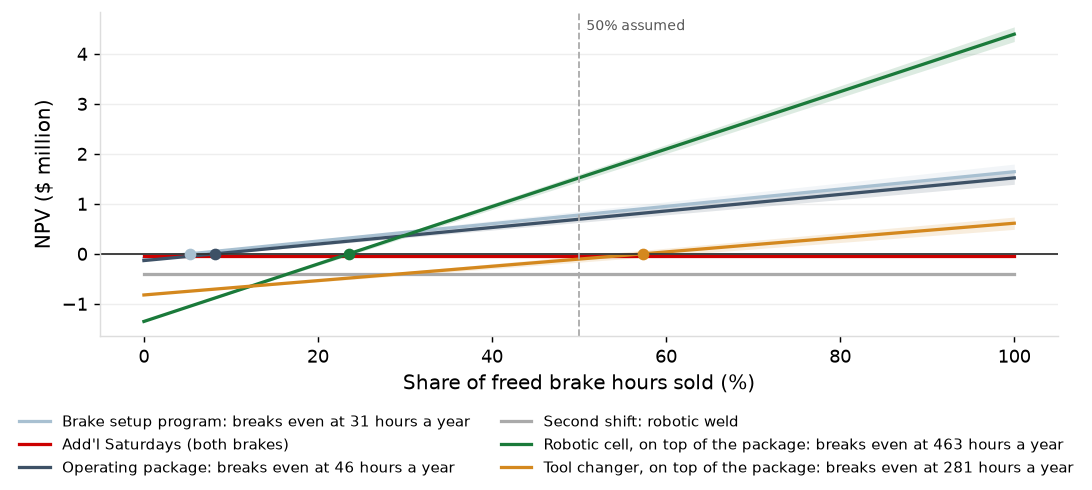
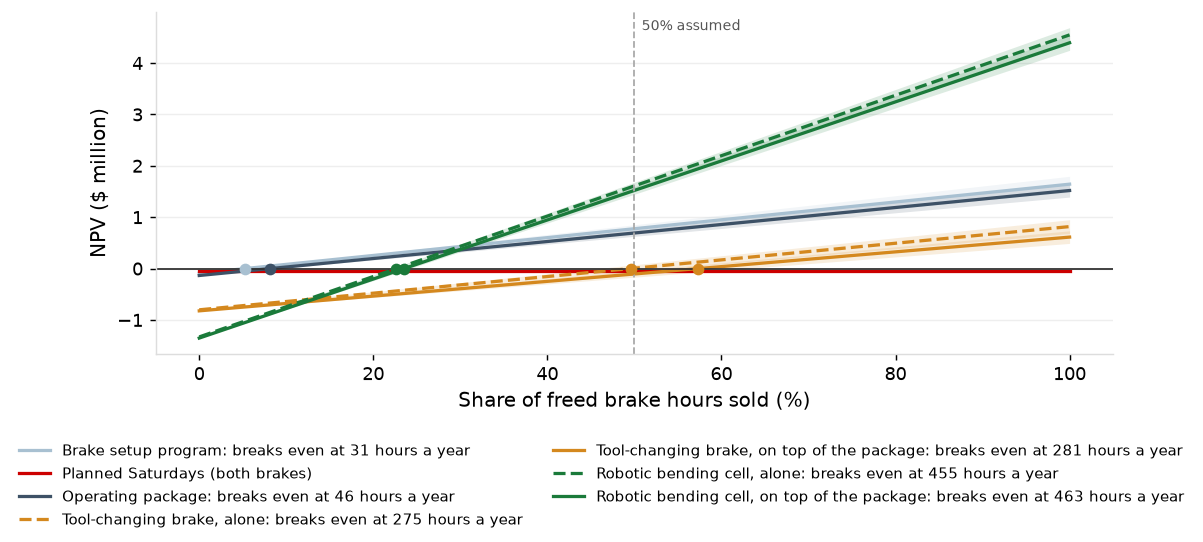
Simulation report: Section 3 restructured around the NPV chart

diff --git a/docs/reports/options_tested.html b/docs/reports/options_tested.html
@@ -84,17 +84,15 @@ nav.toc a.sub { font-size: 12px; padding-left: 22px; }
 <p>Scenarios that improved on-time delivery are shown below alongside their impact on other delivery mechanism and outcome metrics. Changes that free brake capacity (brake setup program, replacing press brake B3, and the new robotic bending cell) saw improvements across the board: decreased brake utilization, lower queue times per operation, reduced floor WIP, and improvements in both number of late jobs and total days late. Additional Saturdays reach a similar result by adding hours rather than removing work, so the brakes stay as busy as before and utilization is unchanged. Earliest due date reorders work without adding capacity, so its gain is smaller: it moves jobs about to miss ahead of jobs due later, which removes late jobs but not days late, as the jobs it delays are later when they miss. Across all scenarios, the gain in on-time delivery follows the cut in brake queue time. See Appendix Tables <a href='#t4'>4</a>, <a href='#t5'>5</a> and <a href='#t6'>6</a> for additional detail.</p>
 <div class='chart-title'>Scenario Analysis: Improvements vs. Status Quo, 2025, With 95% Intervals</div><img alt="Scenario Analysis: Improvements vs. Status Quo, 2025, With 95% Intervals" src="../figures/changes_that_work.png?v=759839c2">
 <h2 id='f3'>3. Return on the Changes That Work</h2>
-<p>Two decisions follow from the results, and they are separate. The operating package addresses the year-end build: it costs $60,000 once and $15,400 a year, and returns that in 0.4 years if half the 566 brake hours it frees are sold, for an NPV of $0.69M. On top of it the robotic cell returns $1.52M with a payback of 2.0 years and breaks even when 24% of its freed hours are sold; the tool changer does not reach zero at half sold (-$0.11M) and needs 57%. The weld cell second shift is the one lever that moves an ordinary quarter, at about $83,000 a year with no return in money. Nothing that costs money pays on cost savings alone.</p>
-<h3 id='f3_1'>What the changes cost and return</h3>
-<p>The return on each change is the brake hours it frees, if those hours are sold, plus overtime avoided, less what it costs to run. The operating package frees 566 brake hours a year, worth $170,000 at half sold, and adds $5,400 of Saturday overtime; the robotic cell frees a further 1,966 hours ($590,000) and costs $67,000 a year to run, $42,000 of it its operator; the tool changer frees 491 ($147,000). Overtime avoided is under $4,000 a year for every change. The simulation replays the 2025 orders, so it ships within 10 jobs of current practice under every option; the throughput value is an assumption about sales, not a simulated result, and only brake hours carry it. Operator hours freed without a change in hours paid are not counted as money. Planned Saturdays add hours rather than free them; their return is in on-time delivery, not in this table. Payback is the one-time cost over the net a year, and NPV is the net a year over 7 years at 10% less the one-time cost, before tax; rates and prices are the shop's. See Appendix Tables <a href='#t7'>7</a> and <a href='#t8'>8</a> for additional detail.</p>
-<div class='chart-title'>Cost and Return, 2025</div><table class="data"><thead><tr><th>Change</th><th>Measured against</th><th>One-time cost</th><th>Added cost a year</th><th>Overtime avoided a year</th><th>Throughput value a year (assumption: 50% sold at 40% margin)</th><th>Net a year</th><th>Payback</th><th>NPV (95% interval)</th><th>Break-even share sold (hours a year)</th></tr></thead><tbody><tr><td class="">Brake setup program</td><td class="">Current practice</td><td class="">$60,000</td><td class="">$10,053</td><td class="">$3,633</td><td class="">$178,086</td><td class="">$171,666</td><td class="">0.3 years</td><td class="">$0.78M ($0.70M to $0.85M)</td><td class="">5% (31 hours)</td></tr><tr><td class="">Add'l Saturdays (both brakes)</td><td class="">Current practice</td><td class="">$0</td><td class="">$8,071</td><td class="">$0</td><td class="">$0</td><td class="">-$8,071</td><td class="">none</td><td class="">-$0.04M (-$0.04M to -$0.03M)</td><td class="">no hours freed</td></tr><tr><td class="">Operating package</td><td class="">Current practice</td><td class="">$60,000</td><td class="">$15,350</td><td class="">$0</td><td class="">$169,882</td><td class="">$154,532</td><td class="">0.4 years</td><td class="">$0.69M ($0.63M to $0.76M)</td><td class="">8% (46 hours)</td></tr><tr><td class="">Second shift: robotic weld</td><td class="">Current practice</td><td class="">$0</td><td class="">$84,041</td><td class="">$1,041</td><td class="">$0</td><td class="">-$83,000</td><td class="">none</td><td class="">-$0.40M (-$0.41M to -$0.40M)</td><td class="">no hours freed</td></tr><tr><td class="">Robotic cell, on top of the package</td><td class="">Operating package</td><td class="">$1,030,000</td><td class="">$66,898</td><td class="">$684</td><td class="">$590,168</td><td class="">$523,954</td><td class="">2.0 years</td><td class="">$1.52M ($1.45M to $1.59M)</td><td class="">24% (463 hours)</td></tr><tr><td class="">Tool changer, on top of the package</td><td class="">Operating package</td><td class="">$735,000</td><td class="">$18,426</td><td class="">$410</td><td class="">$147,405</td><td class="">$129,389</td><td class="">5.7 years</td><td class="">-$0.11M (-$0.17M to -$0.04M)</td><td class="">57% (281 hours)</td></tr></tbody></table>
-<div class='chart-title'>What Makes Up Each Option's NPV, 2025</div><img alt="What Makes Up Each Option's NPV, 2025" src="../figures/return_npv_parts.png?v=b121d349">
-<h3 id='f3_2'>When the freed hours are sold</h3>
+<p>Five changes improved on-time delivery in 2025 and moved the delivery mechanisms and outcomes with it: the brake setup program (+4.5 points), planned Saturdays on both brakes (+4.5), the tool-changing brake (+4.7), the robotic bending cell (+9.4), and the operating package, which combines the first two (+7.7). Each shortened the brake queue, took jobs off the floor, and cut both late jobs and days late. This section sets what each change costs against what it returns. The return is the brake hours a change frees, valued at half of them sold at a 40% margin, plus overtime avoided, less what the change costs to run; NPV is that net a year over 7 years at 10%, less the one-time cost, before tax. On-time delivery itself is not priced, so a change that adds hours rather than freeing them, such as planned Saturdays, shows a cost and no return.</p>
+<div class='chart-title'>What Makes Up Each Option's NPV, 2025</div><img alt="What Makes Up Each Option's NPV, 2025" src="../figures/return_npv_parts.png?v=2a9cbfc9">
+<p>The operating package is recommended first: for $60,000 once and $15,400 a year it raises on-time delivery 7.7 points, pays back in 0.4 years and returns $0.69M, breaking even if 46 of the 566 brake hours it frees are sold. It returns less than the setup program alone ($0.78M) because its Saturdays add overtime and free no hours, and the package frees 27 fewer brake hours than the setup program alone; what they buy is 3.2 more points of on-time delivery. The robotic bending cell is the capital option: on top of the package it adds 2.2 points and returns $1.52M with a 2.0-year payback, breaking even at 463 hours sold a year, and on its own it returns $1.61M. The tool-changing brake does not pay on top of the package (-$0.11M) and only breaks even on its own ($0.01M). See Appendix Tables <a href='#t7'>7</a> and <a href='#t8'>8</a> for additional detail.</p>
+<h3 id='f3_1'>When the freed hours are sold</h3>
 <p>Whether the capital options pay depends on one figure the simulation cannot supply: how many of the freed brake hours the shop sells. The package breaks even at 46 hours sold a year and the robotic cell at 463, against the 16,165 brake hours the shop ran in 2025; the tool changer needs 281 of the 491 it frees. In an ordinary year, without a build, the package frees 311 hours and its NPV falls to $0.30M; the cell's is $1.37M and the tool changer's -$0.18M.</p>
-<div class='chart-title'>NPV Against the Share of Freed Brake Hours Sold</div><img alt="NPV Against the Share of Freed Brake Hours Sold" src="../figures/return_npv_by_share_sold.png?v=c745d1d8">
-<h3 id='f3_3'>What the money does not capture</h3>
+<div class='chart-title'>NPV Against the Share of Freed Brake Hours Sold</div><img alt="NPV Against the Share of Freed Brake Hours Sold" src="../figures/return_npv_by_share_sold.png?v=12c48592">
+<h3 id='f3_2'>What the money does not capture</h3>
 <p>Several effects of these changes are measured but not priced, and some are not measured at all. See Appendix Table <a href='#t9'>9</a> for additional detail.</p>
-<div class='chart-title'>Measured but Not Priced, and Other Considerations</div><table class="data"><thead><tr><th>Change</th><th>Measured, not priced</th><th>Considerations</th></tr></thead><tbody><tr><td class="">Brake setup program</td><td class="">2025: 231 late jobs and 976 days late removed (+4.5 points); 90th-percentile lead time -1.9 days; floor WIP -18 jobs. Top customers at or above 90% on time: 6 of 41 ($1.49M of revenue) against 2 today; at or above 95%: 0. Operator hours freed: 586. Weekend hours per brake operator, November to February: 3.2.</td><td class="">Depends on repeat setups going to the operators who know the part, and on a handover standard being kept. It narrows cross-training. It can be stopped at no cost.</td></tr><tr><td class="">Add'l Saturdays (both brakes)</td><td class="">2025: 232 late jobs and 976 days late removed (+4.5 points); 90th-percentile lead time -1.8 days; floor WIP -15 jobs. Top customers at or above 90% on time: 4 of 41 ($1.02M of revenue) against 2 today; at or above 95%: 0. Weekend hours per brake operator, November to February: 26.7.</td><td class="">About 3.3 Saturdays per brake operator from November to February, against 0.5 today. Sustained weekend work raises fatigue, absence and turnover risk, while a planned shift is easier to staff than one called at short notice. The record has only three Saturdays with both brakes crewed.</td></tr><tr><td class="">Operating package</td><td class="">2025: 395 late jobs and 1,575 days late removed (+7.7 points); 90th-percentile lead time -3.7 days; floor WIP -33 jobs. Top customers at or above 90% on time: 10 of 41 ($3.53M of revenue) against 2 today; at or above 95%: 0. Operator hours freed: 546. Weekend hours per brake operator, November to February: 26.7.</td><td class="">Both of the above.</td></tr><tr><td class="">Second shift: robotic weld</td><td class="">Q2-Q4: 36 late jobs and 183 days late removed (+1.0 points); 90th-percentile lead time -0.3 days; floor WIP -3 jobs. Top customers at or above 90% on time: 2 of 41 ($0.48M of revenue) against 2 today; at or above 95%: 0. Weekend hours per brake operator, November to February: 3.8.</td><td class="">One operator alone on the shift, with no programming or quality support on hand. The shop must hire for it and keep the post filled.</td></tr><tr><td class="">Robotic cell, on top of the package</td><td class="">2025: 115 late jobs and 330 days late removed (+2.2 points); 90th-percentile lead time -1.5 days; floor WIP -17 jobs. Top customers at or above 90% on time: 17 of 41 ($11.54M of revenue) against 2 today; at or above 95%: 3. Operator hours freed: 869. Weekend hours per brake operator, November to February: 26.7.</td><td class="">Runs only light, repeat parts in lots of 25 or more, so its value depends on that work staying 31% of brake hours. Adds 204 setup hours a year to the manual brakes. Needs in-house programming skills. Gives headroom to quote more work. It is the largest sum at risk and cannot be reversed.</td></tr><tr><td class="">Tool changer, on top of the package</td><td class="">2025: 51 late jobs and 144 days late removed (+1.0 points); 90th-percentile lead time -0.7 days; floor WIP -7 jobs. Top customers at or above 90% on time: 15 of 41 ($8.14M of revenue) against 2 today; at or above 95%: 2. Operator hours freed: 490. Weekend hours per brake operator, November to February: 26.7.</td><td class="">B3 is out of service while it is replaced. The effect is limited to B3's setups. One vendor maintains it.</td></tr></tbody></table>
+<div class='chart-title'>Measured but Not Priced, and Other Considerations</div><table class="data"><thead><tr><th>Change</th><th>Measured, not priced</th><th>Considerations</th></tr></thead><tbody><tr><td class="">Brake setup program</td><td class="">2025: 231 late jobs and 976 days late removed (+4.5 points); 90th-percentile lead time -1.9 days; floor WIP -18 jobs. Top customers at or above 90% on time: 6 of 41 ($1.49M of revenue) against 2 today; at or above 95%: 0. Operator hours freed: 586. Weekend hours per brake operator, November to February: 3.2.</td><td class="">Depends on repeat setups going to the operators who know the part, and on a handover standard being kept. It narrows cross-training. It can be stopped at no cost.</td></tr><tr><td class="">Add'l Saturdays (both brakes)</td><td class="">2025: 232 late jobs and 976 days late removed (+4.5 points); 90th-percentile lead time -1.8 days; floor WIP -15 jobs. Top customers at or above 90% on time: 4 of 41 ($1.02M of revenue) against 2 today; at or above 95%: 0. Weekend hours per brake operator, November to February: 26.7.</td><td class="">About 3.3 Saturdays per brake operator from November to February, against 0.5 today. Sustained weekend work raises fatigue, absence and turnover risk, while a planned shift is easier to staff than one called at short notice. The record has only three Saturdays with both brakes crewed.</td></tr><tr><td class="">Operating package</td><td class="">2025: 395 late jobs and 1,575 days late removed (+7.7 points); 90th-percentile lead time -3.7 days; floor WIP -33 jobs. Top customers at or above 90% on time: 10 of 41 ($3.53M of revenue) against 2 today; at or above 95%: 0. Operator hours freed: 546. Weekend hours per brake operator, November to February: 26.7.</td><td class="">Both of the above.</td></tr><tr><td class="">Second shift: robotic weld</td><td class="">Q2-Q4: 36 late jobs and 183 days late removed (+1.0 points); 90th-percentile lead time -0.3 days; floor WIP -3 jobs. Top customers at or above 90% on time: 2 of 41 ($0.48M of revenue) against 2 today; at or above 95%: 0. Weekend hours per brake operator, November to February: 3.8.</td><td class="">One operator alone on the shift, with no programming or quality support on hand. The shop must hire for it and keep the post filled.</td></tr><tr><td class="">New robotic bending cell</td><td class="">2025: 486 late jobs and 1,840 days late removed (+9.4 points); 90th-percentile lead time -5.0 days; floor WIP -46 jobs. Top customers at or above 90% on time: 16 of 41 ($8.35M of revenue) against 2 today; at or above 95%: 2. Operator hours freed: 831. Weekend hours per brake operator, November to February: 0.8.</td><td class="">Runs only light, repeat parts in lots of 25 or more, so its value depends on that work staying 31% of brake hours. Adds 311 setup hours a year to the manual brakes. Needs in-house programming skills. Gives headroom to quote more work. It is the largest sum at risk and cannot be reversed.</td></tr><tr><td class="">Robotic cell, on top of the package</td><td class="">2025: 115 late jobs and 330 days late removed (+2.2 points); 90th-percentile lead time -1.5 days; floor WIP -17 jobs. Top customers at or above 90% on time: 17 of 41 ($11.54M of revenue) against 2 today; at or above 95%: 3. Operator hours freed: 869. Weekend hours per brake operator, November to February: 26.7.</td><td class="">Runs only light, repeat parts in lots of 25 or more, so its value depends on that work staying 31% of brake hours. Adds 204 setup hours a year to the manual brakes. Needs in-house programming skills. Gives headroom to quote more work. It is the largest sum at risk and cannot be reversed.</td></tr><tr><td class="">Replace press brake B3</td><td class="">2025: 240 late jobs and 1,018 days late removed (+4.7 points); 90th-percentile lead time -1.9 days; floor WIP -18 jobs. Top customers at or above 90% on time: 7 of 41 ($1.66M of revenue) against 2 today; at or above 95%: 0. Operator hours freed: 552. Weekend hours per brake operator, November to February: 2.8.</td><td class="">B3 is out of service while it is replaced. The effect is limited to B3's setups. One vendor maintains it.</td></tr><tr><td class="">Tool changer, on top of the package</td><td class="">2025: 51 late jobs and 144 days late removed (+1.0 points); 90th-percentile lead time -0.7 days; floor WIP -7 jobs. Top customers at or above 90% on time: 15 of 41 ($8.14M of revenue) against 2 today; at or above 95%: 2. Operator hours freed: 490. Weekend hours per brake operator, November to February: 26.7.</td><td class="">B3 is out of service while it is replaced. The effect is limited to B3's setups. One vendor maintains it.</td></tr></tbody></table>
 <p>The package comes first: $60,000 and Saturday overtime for +7.7 points in a year with a build, and 46 freed hours sold a year covers it. The robotic cell follows if the shop can sell 463 of the 1,966 brake hours it frees; the tool changer only if it can sell 281 of 491. The weld cell second shift is a separate decision: $83,000 a year for +1.0 point in an ordinary quarter, 36 late jobs and 183 days late.</p>
 <h2 id='f4'>4. Model Accuracy & Validation</h2>
 <h3 id='f4_1'>How the model works</h3>

diff --git a/docs/index.html b/docs/index.html
@@ -34,5 +34,5 @@ nav.toc a { color: var(--accent); text-decoration: none; margin-right: 14px; }
 </style></head>
 <body><div class="page">
 <header class="doc"><div class="kicker">Deliverables</div><h1>Operations analytics</h1><div class="meta">Custom sheet-metal fabrication job shop, about 120 employees, one plant.<br>Eight improvement projects and an operations dashboard on the shop's records from January 2023 to December 2025. Sources: ERP, shop-floor data collection, QMS, maintenance and HR exports (batch 20261012T153907Z-20250101).</div><div class="credit">Created by Brian Davis, 2026</div></header>
-<table class="data"><thead><tr><th>Report</th><th>Question</th><th>Finding</th><th>Deliverable</th></tr></thead><tbody><tr><td class="">Flow and On-time Delivery</td><td class="">Where does the lead time go, and does the floor's WIP match the quoted lead times? What makes jobs late, and do the shop's late-reason codes say so? What lead time should be quoted in a build, and which measures warn of a decline?</td><td class="">Queue at the brakes is 24% of lead time and the stage that separates late jobs from on-time jobs (5.76 days against 2.50); the median job ships in 11.2 working days against an average quoted lead time of 12.9, 9.2 in Q2-Q4. In 2025, jobs waiting at work centers (i.e., queue constraints) accounted for 42% of the 3,473 lost days, while jobs that were released late accounted for 21%, and jobs that waited on material and outside processing accounted for 7% and 3%, respectively. The shop's quoted lead time was off by 4.8 days on average from 2023 to 2025. The current practice of quoting standard lead times based on the part's routing class, and then adjusting this higher during periods of low capacity, proved to be inaccurate in both directions.</td><td class=""><a href='reports/lead_time_and_late_jobs.html'>Report</a></td></tr><tr><td class="">Capacity, Constraints and Setups</td><td class="">Which work centers run hot, and how do their queues respond to load? What do setups cost at the brakes, and where is the overrun?</td><td class="">In 2025, the press brakes ran at 91% average utilization and the robotic weld cell at 82%. Against their 97% uptime, the average production capacity buffer was only 6 points for the press brakes and 15 points for the robotic weld cell, the smallest of all work centers. Brake setups ran 1,847 hours over standard in 2025, 36 a week, 10.4 points of brake utilization.</td><td class=""><a href='reports/capacity_constraints_and_setups.html'>Report</a></td></tr><tr><td class="">Discrete Event Simulation: On-time Delivery</td><td class="">Do release and dispatch rules raise on-time delivery, or only added brake hours? What do the changes that work cost and return?</td><td class="">Scenarios that added brake capacity improved on-time delivery. Among the release and dispatch rules, only earliest due date improved on-time delivery. The "Operating Package" combines the brake setup program and additional Saturday shifts on both brakes, the two low cost capacity scenarios. This combination added 7.7 points to on-time delivery. The operating package addresses the year-end build: it costs $60,000 once and $15,400 a year, and returns that in 0.4 years if half the 566 brake hours it frees are sold, for an NPV of $0.69M. On top of it the robotic cell returns $1.52M with a payback of 2.0 years and breaks even when 24% of its freed hours are sold; the tool changer does not reach zero at half sold (-$0.11M) and needs 57%.</td><td class=""><a href='reports/options_tested.html'>Report</a></td></tr></tbody></table><p><a href='dashboard/index.html'>Operations dashboard</a></p>
+<table class="data"><thead><tr><th>Report</th><th>Question</th><th>Finding</th><th>Deliverable</th></tr></thead><tbody><tr><td class="">Flow and On-time Delivery</td><td class="">Where does the lead time go, and does the floor's WIP match the quoted lead times? What makes jobs late, and do the shop's late-reason codes say so? What lead time should be quoted in a build, and which measures warn of a decline?</td><td class="">Queue at the brakes is 24% of lead time and the stage that separates late jobs from on-time jobs (5.76 days against 2.50); the median job ships in 11.2 working days against an average quoted lead time of 12.9, 9.2 in Q2-Q4. In 2025, jobs waiting at work centers (i.e., queue constraints) accounted for 42% of the 3,473 lost days, while jobs that were released late accounted for 21%, and jobs that waited on material and outside processing accounted for 7% and 3%, respectively. The shop's quoted lead time was off by 4.8 days on average from 2023 to 2025. The current practice of quoting standard lead times based on the part's routing class, and then adjusting this higher during periods of low capacity, proved to be inaccurate in both directions.</td><td class=""><a href='reports/lead_time_and_late_jobs.html'>Report</a></td></tr><tr><td class="">Capacity, Constraints and Setups</td><td class="">Which work centers run hot, and how do their queues respond to load? What do setups cost at the brakes, and where is the overrun?</td><td class="">In 2025, the press brakes ran at 91% average utilization and the robotic weld cell at 82%. Against their 97% uptime, the average production capacity buffer was only 6 points for the press brakes and 15 points for the robotic weld cell, the smallest of all work centers. Brake setups ran 1,847 hours over standard in 2025, 36 a week, 10.4 points of brake utilization.</td><td class=""><a href='reports/capacity_constraints_and_setups.html'>Report</a></td></tr><tr><td class="">Discrete Event Simulation: On-time Delivery</td><td class="">Do release and dispatch rules raise on-time delivery, or only added brake hours? What do the changes that work cost and return?</td><td class="">Scenarios that added brake capacity improved on-time delivery. Among the release and dispatch rules, only earliest due date improved on-time delivery. The "Operating Package" combines the brake setup program and additional Saturday shifts on both brakes, the two low cost capacity scenarios. This combination added 7.7 points to on-time delivery. The operating package is recommended first: for $60,000 once and $15,400 a year it raises on-time delivery 7.7 points, pays back in 0.4 years and returns $0.69M, breaking even if 46 of the 566 brake hours it frees are sold. The robotic bending cell is the capital option: on top of the package it adds 2.2 points and returns $1.52M with a 2.0-year payback, breaking even at 463 hours sold a year, and on its own it returns $1.61M.</td><td class=""><a href='reports/options_tested.html'>Report</a></td></tr></tbody></table><p><a href='dashboard/index.html'>Operations dashboard</a></p>
 </div></body></html>

diff --git a/analytics/reports/options_tested.py b/analytics/reports/options_tested.py
@@ -275,10 +275,18 @@ def fig_summary_steps(package, cell):
     return save(f, "summary_steps", "")
 
 
+# the rows of the two return charts: a scenario, what it is measured against, and its label
+CHARTED = [(SETUP, CURRENT, "Brake setup program"), (SAT_BOTH, CURRENT, "Planned Saturdays (both brakes)"), (PACKAGE, CURRENT, "Operating package"),
+           (CHANGER, CURRENT, "Tool-changing brake, alone"), (P_CHANGER, PACKAGE, "Tool-changing brake, on top of the package"),
+           (CELL, CURRENT, "Robotic bending cell, alone"), (P_CELL, PACKAGE, "Robotic bending cell, on top of the package")]
+# the rows of the table of what is measured and not priced
+NOT_PRICED = [(SETUP, CURRENT), (SAT_BOTH, CURRENT), (PACKAGE, CURRENT), (WELD, CURRENT), (CELL, CURRENT), (P_CELL, PACKAGE), (CHANGER, CURRENT), (P_CHANGER, PACKAGE)]
+
+
 def fig_npv(money):
-    f, ax = fig(h=3.6, grid="x")
-    y = np.arange(len(RETURN))[::-1]
-    for yi, (sc, ref) in zip(y, RETURN):
+    f, ax = fig(h=4.0, grid="x")
+    y = np.arange(len(CHARTED))[::-1]
+    for yi, (sc, ref, _) in zip(y, CHARTED):
         m = money[sc]
         left = 0.0
         for v, c in ((m["one_time"], RED), (m["added"] * A.ANNUITY, AMBER)):
@@ -294,7 +302,7 @@ def fig_npv(money):
         ax.annotate(musd(m["npv"][0]), (max(right, t[2]), yi), textcoords="offset points", xytext=(6, 0), va="center", fontsize=8.5)
     ax.axvline(0, color="#333333", lw=1)
     ax.set_yticks(y)
-    ax.set_yticklabels([name(sc) for sc, _ in RETURN], fontsize=9)
+    ax.set_yticklabels([lab for _, _, lab in CHARTED], fontsize=9)
     ax.set_xlabel(f"Present value over {A.F['horizon_years']} years at {A.F['discount_rate']:.0%} ($ million)")
     lo, hi = ax.get_xlim()
     ax.set_xlim(lo, hi + (hi - lo) * 0.08)
@@ -305,14 +313,14 @@ def fig_npv(money):
 
 
 def fig_sold(money):
-    f, ax = fig(h=3.8)
+    f, ax = fig(h=4.2)
     x = np.linspace(0, 1, 41)
-    colors = {SETUP: LIGHT_BLUE, PACKAGE: BRAND_BLUE, P_CELL: GREEN, P_CHANGER: AMBER, WELD: GREY, SAT_BOTH: RED}
-    for sc, ref in RETURN:
+    colors = {SETUP: LIGHT_BLUE, PACKAGE: BRAND_BLUE, P_CELL: GREEN, CELL: GREEN, P_CHANGER: AMBER, CHANGER: AMBER, SAT_BOTH: RED}
+    for sc, ref, lab in CHARTED:
         m = money[sc]
         v = np.array([A.npv_at(m, s) for s in x]) / 1e6
         even = m["share"] == m["share"] and 0 < m["share"] < 1
-        ax.plot(x * 100, v[:, 0], color=colors[sc], lw=1.8, label=name(sc) + (f": breaks even at {n0(m['hours'])} hours a year" if even else ""))
+        ax.plot(x * 100, v[:, 0], color=colors[sc], lw=1.8, ls="--" if sc in (CELL, CHANGER) else "-", label=lab + (f": breaks even at {n0(m['hours'])} hours a year" if even else ""))
         ax.fill_between(x * 100, v[:, 1], v[:, 2], color=colors[sc], alpha=0.15, lw=0)
         if even:
             ax.scatter([m["share"] * 100], [0], color=colors[sc], s=30, zorder=5)
@@ -322,7 +330,7 @@ def fig_sold(money):
     ax.set_xlabel("Share of freed brake hours sold (%)")
     ax.set_ylabel("NPV ($ million)")
     f.legend(*ax.get_legend_handles_labels(), frameon=False, fontsize=8.5, ncol=2, loc="lower center")
-    f.tight_layout(rect=(0, 0.14, 1, 1))
+    f.tight_layout(rect=(0, 0.19, 1, 1))
     return save(f, "return_npv_by_share_sold", "")
 
 
@@ -659,26 +667,30 @@ def build():
     # 3 ── return
     b.append("<h2 id='f3'>3. Return on the Changes That Work</h2>")
     mp, mc, mt, mw = money[PACKAGE], money[P_CELL], money[P_CHANGER], money[WELD]
+    ms, mca, mta = money[SETUP], money[CELL], money[CHANGER]
     assert all(money[sc]["net_without"] < 0 for sc, _ in RETURN) and mt["npv"][2] < 0 and mc["npv"][1] > 0
-    b.append(f"<p>Two decisions follow from the results, and they are separate. The operating package addresses the year-end build: it costs {usd(mp['one_time'])} once and "
-             f"{usd(round(mp['added'], -2))} a year, and returns that in {d1(mp['payback'])} years if half the {n0(mp['freed'])} brake hours it frees are sold, for an NPV of "
-             f"{musd(mp['npv'][0])}. On top of it the robotic cell returns {musd(mc['npv'][0])} with a payback of {d1(mc['payback'])} years and breaks even when {pc(mc['share'], 0)} of its "
-             f"freed hours are sold; the tool changer does not reach zero at half sold ({musd(mt['npv'][0])}) and needs {pc(mt['share'], 0)}. The weld cell second shift is the one lever "
-             f"that moves an ordinary quarter, at about {usd(round(mw['weld'], -3))} a year with no return in money. Nothing that costs money pays on cost savings alone.</p>")
-    b.append("<h3 id='f3_1'>What the changes cost and return</h3>")
-    b.append(f"<p>The return on each change is the brake hours it frees, if those hours are sold, plus overtime avoided, less what it costs to run. The operating package frees "
-             f"{n0(mp['freed'])} brake hours a year, worth {usd(round(mp['throughput'], -3))} at half sold, and adds {usd(round(mp['added_overtime'], -2))} of Saturday overtime; the robotic "
-             f"cell frees a further {n0(mc['freed'])} hours ({usd(round(mc['throughput'], -3))}) and costs {usd(round(mc['added'], -3))} a year to run, {usd(round(mc['cell'], -3))} of it "
-             f"its operator; the tool changer frees {n0(mt['freed'])} ({usd(round(mt['throughput'], -3))}). Overtime avoided is under {usd(np.ceil(max(money[sc]['avoided'] for sc, _ in RETURN) / 1000) * 1000)} a year for every change. The simulation "
-             f"replays the {YEAR} orders, so it ships within {n0(max(abs(chg(sc, 'jobs_shipped')) for sc, _ in RETURN))} jobs of current practice under every option; the throughput value "
-             f"is an assumption about sales, not a simulated result, and only brake hours carry it. Operator hours freed without a change in hours paid are not counted as money. Planned "
-             f"Saturdays add hours rather than free them; their return is in on-time delivery, not in this table. Payback is the one-time cost over the net a year, and NPV is the net a "
-             f"year over {A.F['horizon_years']} years at {A.F['discount_rate']:.0%} less the one-time cost, before tax; rates and prices are the shop's. "
-             f"{T.see('measures', 'cost')}</p>")
-    b.append(chart(f"Cost and Return, {YEAR}", t_cost(RETURN)))
+    five = (SETUP, SAT_BOTH, CHANGER, CELL, PACKAGE)
+    assert all(impact(A.diff(s, m), up) == "Positive Impact" for s in five for m, _, _, _, up in PANELS if m != "brake_utilization")
+    assert money[SAT_BOTH]["freed"] == 0 and money[SAT_BOTH]["npv"][2] < 0 and ms["npv"][0] > mp["npv"][0] and mta["npv"][1] < 0 < mta["npv"][2]
+    gain = lambda s: f"{sg(chg(s, 'on_time_delivery') * 100)}"
+    b.append(f"<p>Five changes improved on-time delivery in {YEAR} and moved the delivery mechanisms and outcomes with it: the brake setup program ({gain(SETUP)} points), planned "
+             f"Saturdays on both brakes ({gain(SAT_BOTH)}), the tool-changing brake ({gain(CHANGER)}), the robotic bending cell ({gain(CELL)}), and the operating package, which combines "
+             f"the first two ({gain(PACKAGE)}). Each shortened the brake queue, took jobs off the floor, and cut both late jobs and days late. This section sets what each change costs "
+             f"against what it returns. The return is the brake hours a change frees, valued at half of them sold at a {A.RH['contribution_margin_share']:.0%} margin, plus overtime "
+             f"avoided, less what the change costs to run; NPV is that net a year over {A.F['horizon_years']} years at {A.F['discount_rate']:.0%}, less the one-time cost, before tax. "
+             f"On-time delivery itself is not priced, so a change that adds hours rather than freeing them, such as planned Saturdays, shows a cost and no return.</p>")
+    assert A.SOLD == 0.5
     b.append(titled(fig_npv(money), f"What Makes Up Each Option's NPV, {YEAR}"))
+    b.append(f"<p>The operating package is recommended first: for {usd(mp['one_time'])} once and {usd(round(mp['added'], -2))} a year it raises on-time delivery "
+             f"{d1(chg(PACKAGE, 'on_time_delivery') * 100)} points, pays back in {d1(mp['payback'])} years and returns {musd(mp['npv'][0])}, breaking even if {n0(mp['hours'])} of the "
+             f"{n0(mp['freed'])} brake hours it frees are sold. It returns less than the setup program alone ({musd(ms['npv'][0])}) because its Saturdays add overtime and free no hours, "
+             f"and the package frees {n0(ms['freed'] - mp['freed'])} fewer brake hours than the setup program alone; what they buy is "
+             f"{d1((chg(PACKAGE, 'on_time_delivery') - chg(SETUP, 'on_time_delivery')) * 100)} more points of on-time delivery. The robotic bending cell is the capital option: on top of the "
+             f"package it adds {d1(chg(P_CELL, 'on_time_delivery', 'year', PACKAGE) * 100)} points and returns {musd(mc['npv'][0])} with a {d1(mc['payback'])}-year payback, breaking even "
+             f"at {n0(mc['hours'])} hours sold a year, and on its own it returns {musd(mca['npv'][0])}. The tool-changing brake does not pay on top of the package "
+             f"({musd(mt['npv'][0])}) and only breaks even on its own ({musd(mta['npv'][0])}). {T.see('measures', 'cost')}</p>")
 
-    b.append("<h3 id='f3_2'>When the freed hours are sold</h3>")
+    b.append("<h3 id='f3_1'>When the freed hours are sold</h3>")
     oc, ot_ = ordinary[P_CELL], ordinary[P_CHANGER]
     b.append(f"<p>Whether the capital options pay depends on one figure the simulation cannot supply: how many of the freed brake hours the shop sells. The package breaks even at "
              f"{n0(mp['hours'])} hours sold a year and the robotic cell at {n0(mc['hours'])}, against the {n0(M['brake_hours'])} brake hours the shop ran in {YEAR}; the tool changer needs "
@@ -686,7 +698,7 @@ def build():
              f"{musd(ordinary[PACKAGE]['npv'][0])}; the cell's is {musd(oc['npv'][0])} and the tool changer's {musd(ot_['npv'][0])}.</p>")
     b.append(titled(fig_sold(money), "NPV Against the Share of Freed Brake Hours Sold"))
 
-    b.append("<h3 id='f3_3'>What the money does not capture</h3>")
+    b.append("<h3 id='f3_2'>What the money does not capture</h3>")
     b.append(f"<p>Several effects of these changes are measured but not priced, and some are not measured at all. {T.see('customers')}</p>")
     base90 = A.lifted(CURRENT, 0.90)
 
@@ -712,19 +724,20 @@ def build():
 
     sats = A.mean(SAT_BOTH, "saturday_hours_winter") / 8 / M["operators"]
     sats_now = A.mean(CURRENT, "saturday_hours_winter") / 8 / M["operators"]
-    added_setup = chg(P_CELL, "brake_setup_hours", "year", PACKAGE)
+    added_setup, added_setup_alone = chg(P_CELL, "brake_setup_hours", "year", PACKAGE), chg(CELL, "brake_setup_hours")
+    cell_note = lambda h: (f"Runs only light, repeat parts in lots of 25 or more, so its value depends on that work staying {pc(M['cell_share'], 0)} of brake hours. Adds {n0(h)} setup hours a "
+                           f"year to the manual brakes. Needs in-house programming skills. Gives headroom to quote more work. It is the largest sum at risk and cannot be reversed.")
+    changer_note = "B3 is out of service while it is replaced. The effect is limited to B3's setups. One vendor maintains it."
     consider = {
         SETUP: "Depends on repeat setups going to the operators who know the part, and on a handover standard being kept. It narrows cross-training. It can be stopped at no cost.",
         SAT_BOTH: f"About {d1(sats)} Saturdays per brake operator from November to February, against {d1(sats_now)} today. Sustained weekend work raises fatigue, absence and turnover risk, "
                   f"while a planned shift is easier to staff than one called at short notice. The record has only {WORD[both_saturdays]} Saturdays with both brakes crewed.",
         PACKAGE: "Both of the above.",
         WELD: "One operator alone on the shift, with no programming or quality support on hand. The shop must hire for it and keep the post filled.",
-        P_CELL: f"Runs only light, repeat parts in lots of 25 or more, so its value depends on that work staying {pc(M['cell_share'], 0)} of brake hours. Adds {n0(added_setup)} setup hours a "
-                f"year to the manual brakes. Needs in-house programming skills. Gives headroom to quote more work. It is the largest sum at risk and cannot be reversed.",
-        P_CHANGER: "B3 is out of service while it is replaced. The effect is limited to B3's setups. One vendor maintains it."}
-    assert added_setup > 0
+        CELL: cell_note(added_setup_alone), P_CELL: cell_note(added_setup), CHANGER: changer_note, P_CHANGER: changer_note}
+    assert added_setup > 0 and added_setup_alone > 0
     b.append(chart("Measured but Not Priced, and Other Considerations",
-                   table(pd.DataFrame([[name(sc), unpriced(sc, ref), consider[sc]] for sc, ref in RETURN], columns=["Change", "Measured, not priced", "Considerations"]))))
+                   table(pd.DataFrame([[name(sc), unpriced(sc, ref), consider[sc]] for sc, ref in NOT_PRICED], columns=["Change", "Measured, not priced", "Considerations"]))))
     b.append(f"<p>The package comes first: {usd(mp['one_time'])} and Saturday overtime for {sg(pk[0] * 100)} points in a year with a build, and {n0(mp['hours'])} freed hours sold a year "
              f"covers it. The robotic cell follows if the shop can sell {n0(mc['hours'])} of the {n0(mc['freed'])} brake hours it frees; the tool changer only if it can sell "
              f"{n0(mt['hours'])} of {n0(mt['freed'])}. The weld cell second shift is a separate decision: {usd(round(mw['weld'], -3))} a year for {sg(chg(WELD, 'on_time_delivery', 'rest') * 100)} "

diff --git a/analytics/site.py b/analytics/site.py
@@ -49,7 +49,8 @@ def _options():
     lead = re.search(r"Scenarios that added brake capacity improved on-time delivery\.", results).group(0) + " " + re.search(
         r"Among the release and dispatch rules, only earliest due date improved on-time delivery\.", results).group(0)
     package = re.search(r"The .Operating Package. combines .*? points to on-time delivery\.", results).group(0)
-    money = re.search(r"The operating package addresses the year-end build: .*? and needs \d+%\.", section_text(OPTIONS, "f3")).group(0)
+    money = re.search(r"The operating package is recommended first: .*? brake hours it frees are sold\.", section_text(OPTIONS, "f3")).group(0) + " " + re.search(
+        r"The robotic bending cell is the capital option: .*? on its own it returns \$[\d.]+M\.", section_text(OPTIONS, "f3")).group(0)
     return f"{lead} {package} {money}"
 
 

diff --git a/README.md b/README.md
@@ -24,7 +24,7 @@ The engagement put the ERP order and quote records beside the MES operation time
 |---|---|---|---|
 | Flow and On-time Delivery | Where does the lead time go, and does the floor's WIP match the quoted lead times? What makes jobs late, and do the shop's late-reason codes say so? What lead time should be quoted in a build, and which measures warn of a decline? | Queue at the brakes is 24% of lead time and the stage that separates late jobs from on-time jobs (5.76 days against 2.50); the median job ships in 11.2 working days against an average quoted lead time of 12.9, 9.2 in Q2-Q4. In 2025, jobs waiting at work centers (i.e., queue constraints) accounted for 42% of the 3,473 lost days, while jobs that were released late accounted for 21%, and jobs that waited on material and outside processing accounted for 7% and 3%, respectively. The shop's quoted lead time was off by 4.8 days on average from 2023 to 2025. The current practice of quoting standard lead times based on the part's routing class, and then adjusting this higher during periods of low capacity, proved to be inaccurate in both directions. | [report](https://brimsystems.github.io/mfg-operations-analytics/docs/reports/lead_time_and_late_jobs.html) |
 | Capacity, Constraints and Setups | Which work centers run hot, and how do their queues respond to load? What do setups cost at the brakes, and where is the overrun? | In 2025, the press brakes ran at 91% average utilization and the robotic weld cell at 82%. Against their 97% uptime, the average production capacity buffer was only 6 points for the press brakes and 15 points for the robotic weld cell, the smallest of all work centers. Brake setups ran 1,847 hours over standard in 2025, 36 a week, 10.4 points of brake utilization. | [report](https://brimsystems.github.io/mfg-operations-analytics/docs/reports/capacity_constraints_and_setups.html) |
-| Discrete Event Simulation: On-time Delivery | Do release and dispatch rules raise on-time delivery, or only added brake hours? What do the changes that work cost and return? | Scenarios that added brake capacity improved on-time delivery. Among the release and dispatch rules, only earliest due date improved on-time delivery. The "Operating Package" combines the brake setup program and additional Saturday shifts on both brakes, the two low cost capacity scenarios. This combination added 7.7 points to on-time delivery. The operating package addresses the year-end build: it costs $60,000 once and $15,400 a year, and returns that in 0.4 years if half the 566 brake hours it frees are sold, for an NPV of $0.69M. On top of it the robotic cell returns $1.52M with a payback of 2.0 years and breaks even when 24% of its freed hours are sold; the tool changer does not reach zero at half sold (-$0.11M) and needs 57%. | [report](https://brimsystems.github.io/mfg-operations-analytics/docs/reports/options_tested.html) |
+| Discrete Event Simulation: On-time Delivery | Do release and dispatch rules raise on-time delivery, or only added brake hours? What do the changes that work cost and return? | Scenarios that added brake capacity improved on-time delivery. Among the release and dispatch rules, only earliest due date improved on-time delivery. The "Operating Package" combines the brake setup program and additional Saturday shifts on both brakes, the two low cost capacity scenarios. This combination added 7.7 points to on-time delivery. The operating package is recommended first: for $60,000 once and $15,400 a year it raises on-time delivery 7.7 points, pays back in 0.4 years and returns $0.69M, breaking even if 46 of the 566 brake hours it frees are sold. The robotic bending cell is the capital option: on top of the package it adds 2.2 points and returns $1.52M with a 2.0-year payback, breaking even at 463 hours sold a year, and on its own it returns $1.61M. | [report](https://brimsystems.github.io/mfg-operations-analytics/docs/reports/options_tested.html) |
 
 **Dashboard.** [docs/dashboard/index.html](https://brimsystems.github.io/mfg-operations-analytics/docs/dashboard/index.html). Index of deliverables: [docs/index.html](https://brimsystems.github.io/mfg-operations-analytics/docs/index.html). The week of 15 December 2025 is the current week; every panel carries a one-line definition in the reports' wording.
 
